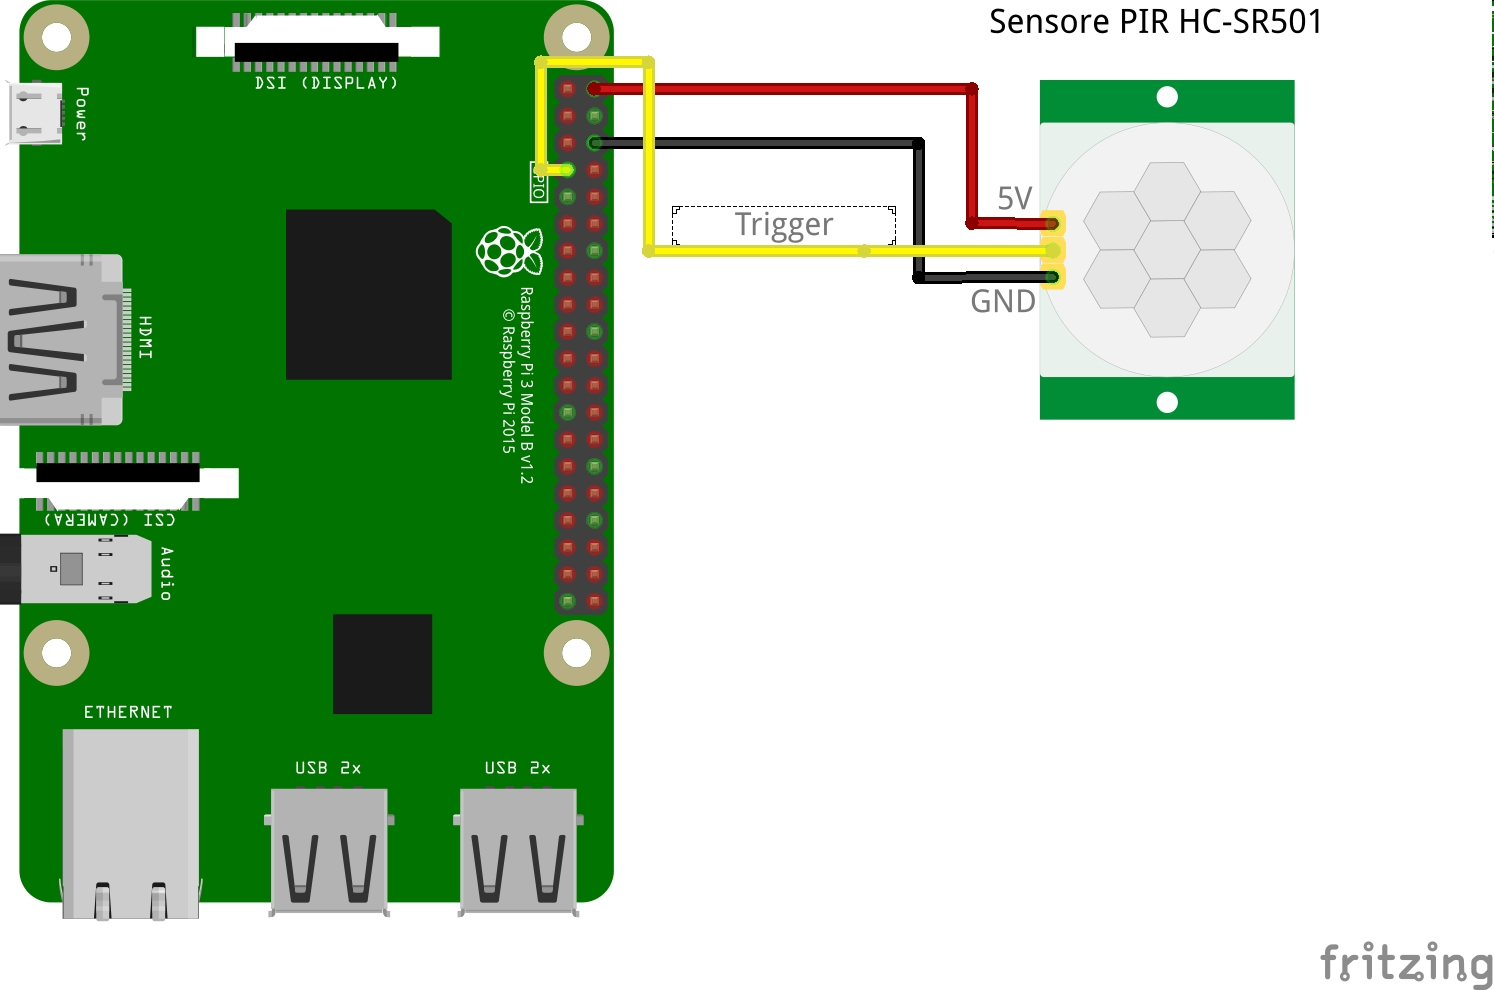
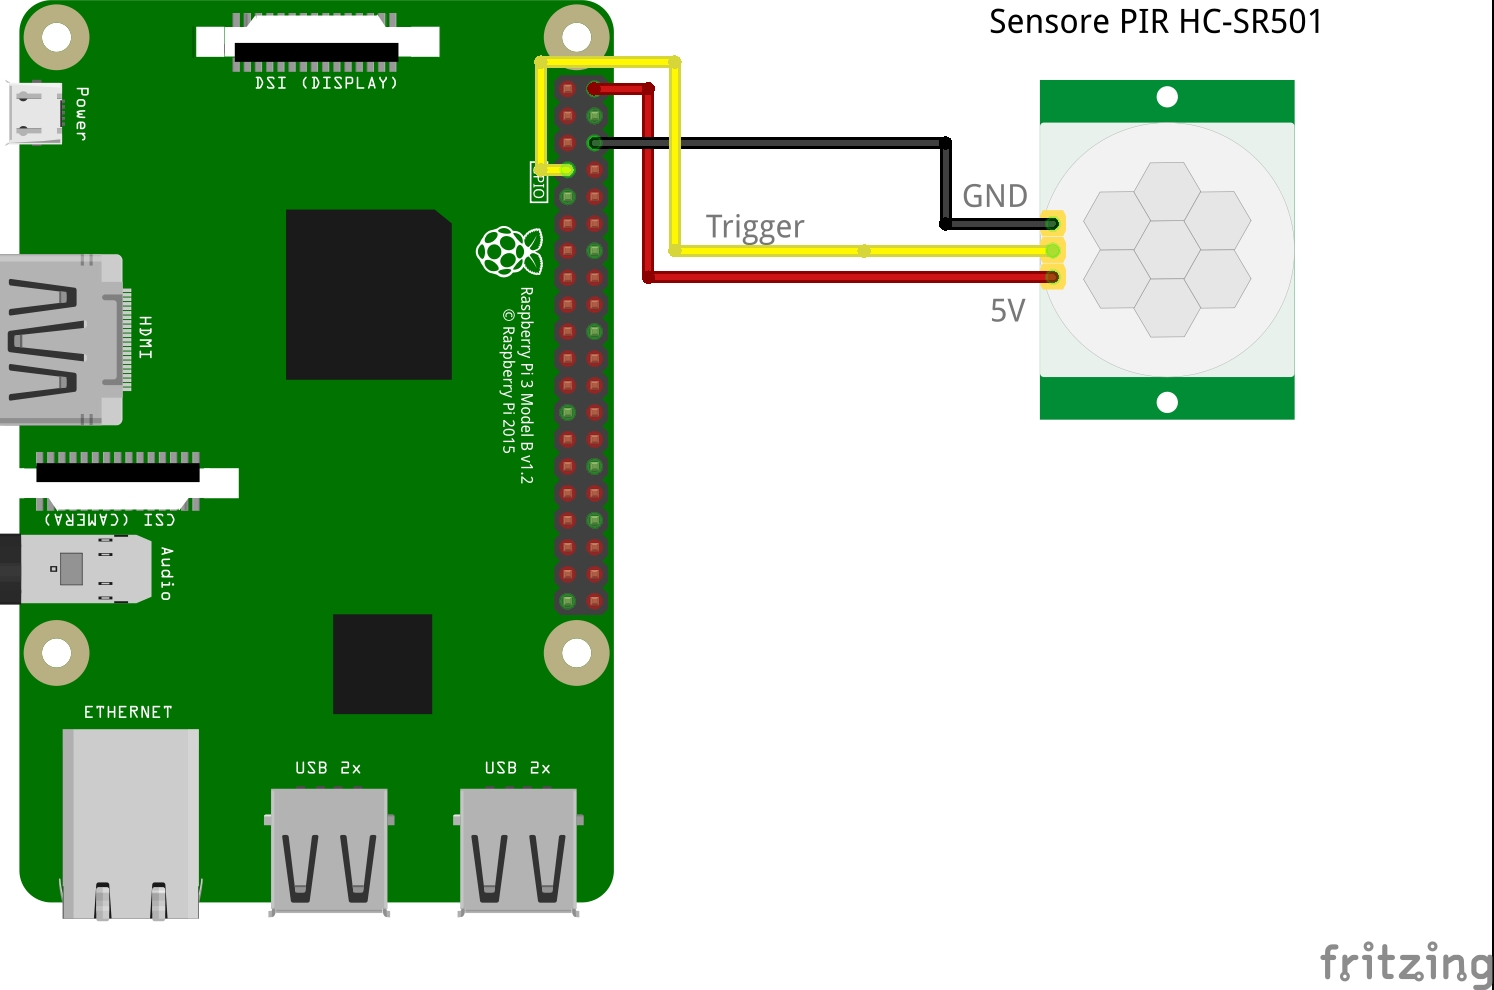
added a warning to the examples to check the pins on the sensor. Some sensors do have the VCC and GND pin swapped. Changed the VCC and GND pin in the wiring figure. It seems that most sensors do have the pins this way.

Changed region(s): [[0.4311, 0.0303, 0.7082, 0.3333]]

diff --git a/examples/HC-SR501/HC-SR501-GPIO4-README-DE.md b/examples/HC-SR501/HC-SR501-GPIO4-README-DE.md
@@ -32,6 +32,8 @@ Der Sensor kann mit einer Spannung von 5V bis 20V (teilweise nur 12V) betrieben 
 Ein entsprechendes Bild ist in diesem Ordner enthalten (HC-SR501-GPIO4.jpg).
 VCC wird mit Pin 2, GND mit 6, Trigger mit 7 verbunden.
 
+Bitte unbedingt darauf achten, dass die Leitung von Pin 2 mit dem "+" Pol und Pin 6 mit dem GND des Sensors verbunden wird. Andernfalls kann der Sensor zestört werden. Das Bild zeigt ein typisches Beispiel, bei manchen Sensoren sind die Pole vertauscht.
+
 ![alt text](https://github.com/Tom-Hirschberger/MMM-GPIO-Notifications/blob/master/examples/HC-SR501/HC-SR501-GPIO4.jpg "HC-SR501-GPIO4.jpg")
 
 

diff --git a/examples/HC-SR501/HC-SR501-GPIO4-README-EN.md b/examples/HC-SR501/HC-SR501-GPIO4-README-EN.md
@@ -31,6 +31,7 @@ The potentiometer which is closer to the mid of the sensor controls the sensivit
 The sensor can be used with voltages between 5V and 20V (sometimes only 12V). We need to connect the VCC, GND and the signal (trigger).
 
 In the following picture VCC is connected to pin 2, GND to 6 and trigger to 7.
+Be sure to connect pin 2 to VCC and pin 6 to GND. The figure is only an example and at some sensors the pins are switched. Swapping the pins may damage the sensor.
 
 ![alt text](https://github.com/Tom-Hirschberger/MMM-GPIO-Notifications/blob/master/examples/HC-SR501/HC-SR501-GPIO4.jpg "HC-SR501-GPIO4.jpg")
 
